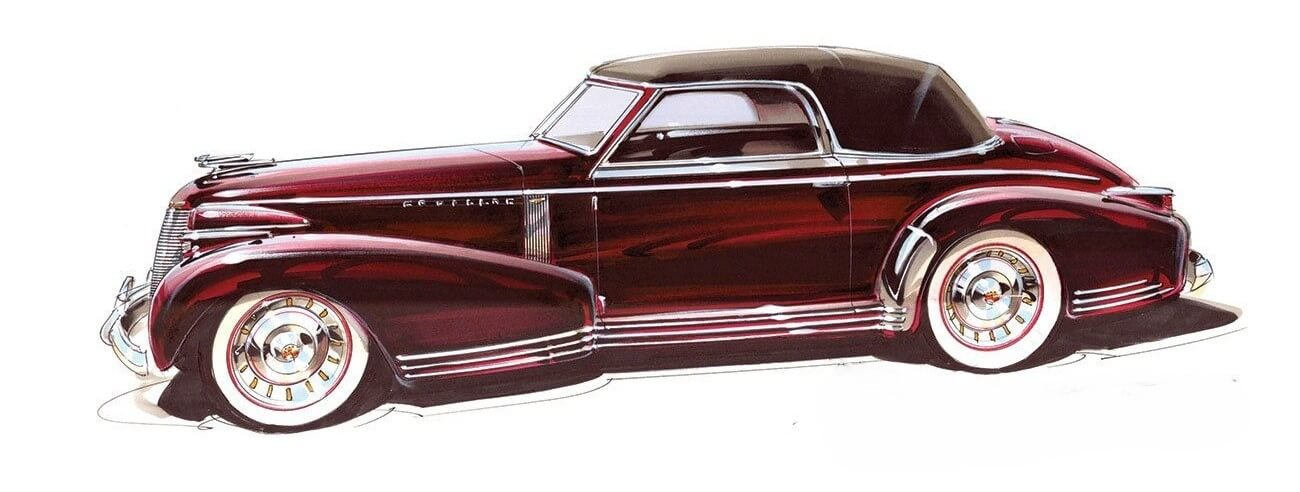
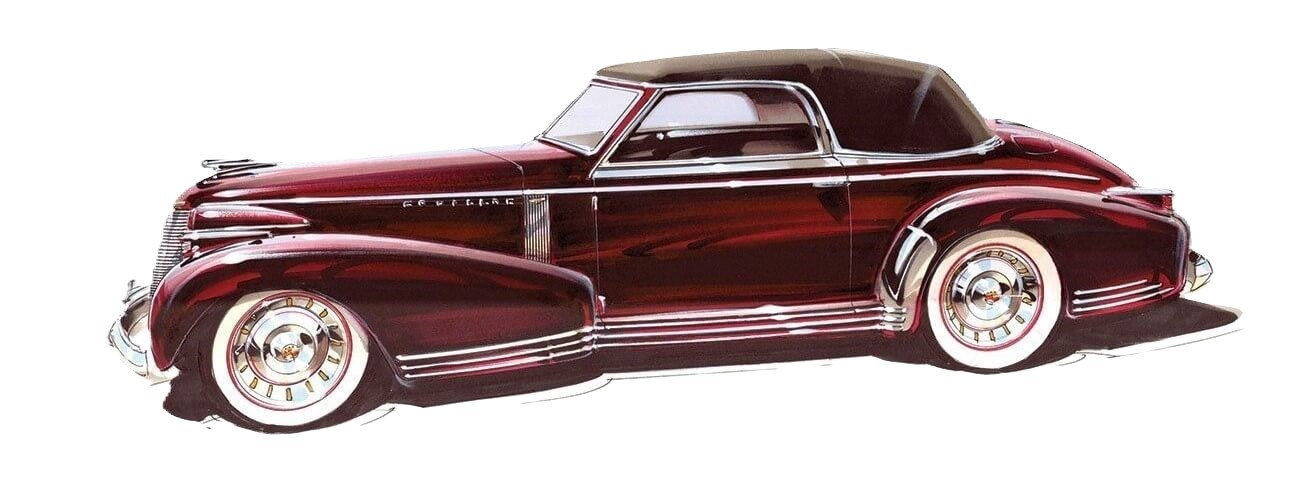
delete img background in car section

diff --git a/index.html b/index.html
@@ -72,7 +72,7 @@
       <section id="car" class="car">
         <div class="car__block">
           <img
-            src="assests/img/sixty-special-33-1.jpg"
+            src="assests/img/sixty-special-33-2.png"
             alt="Рисунок раритетной машины"
           />
         </div>
